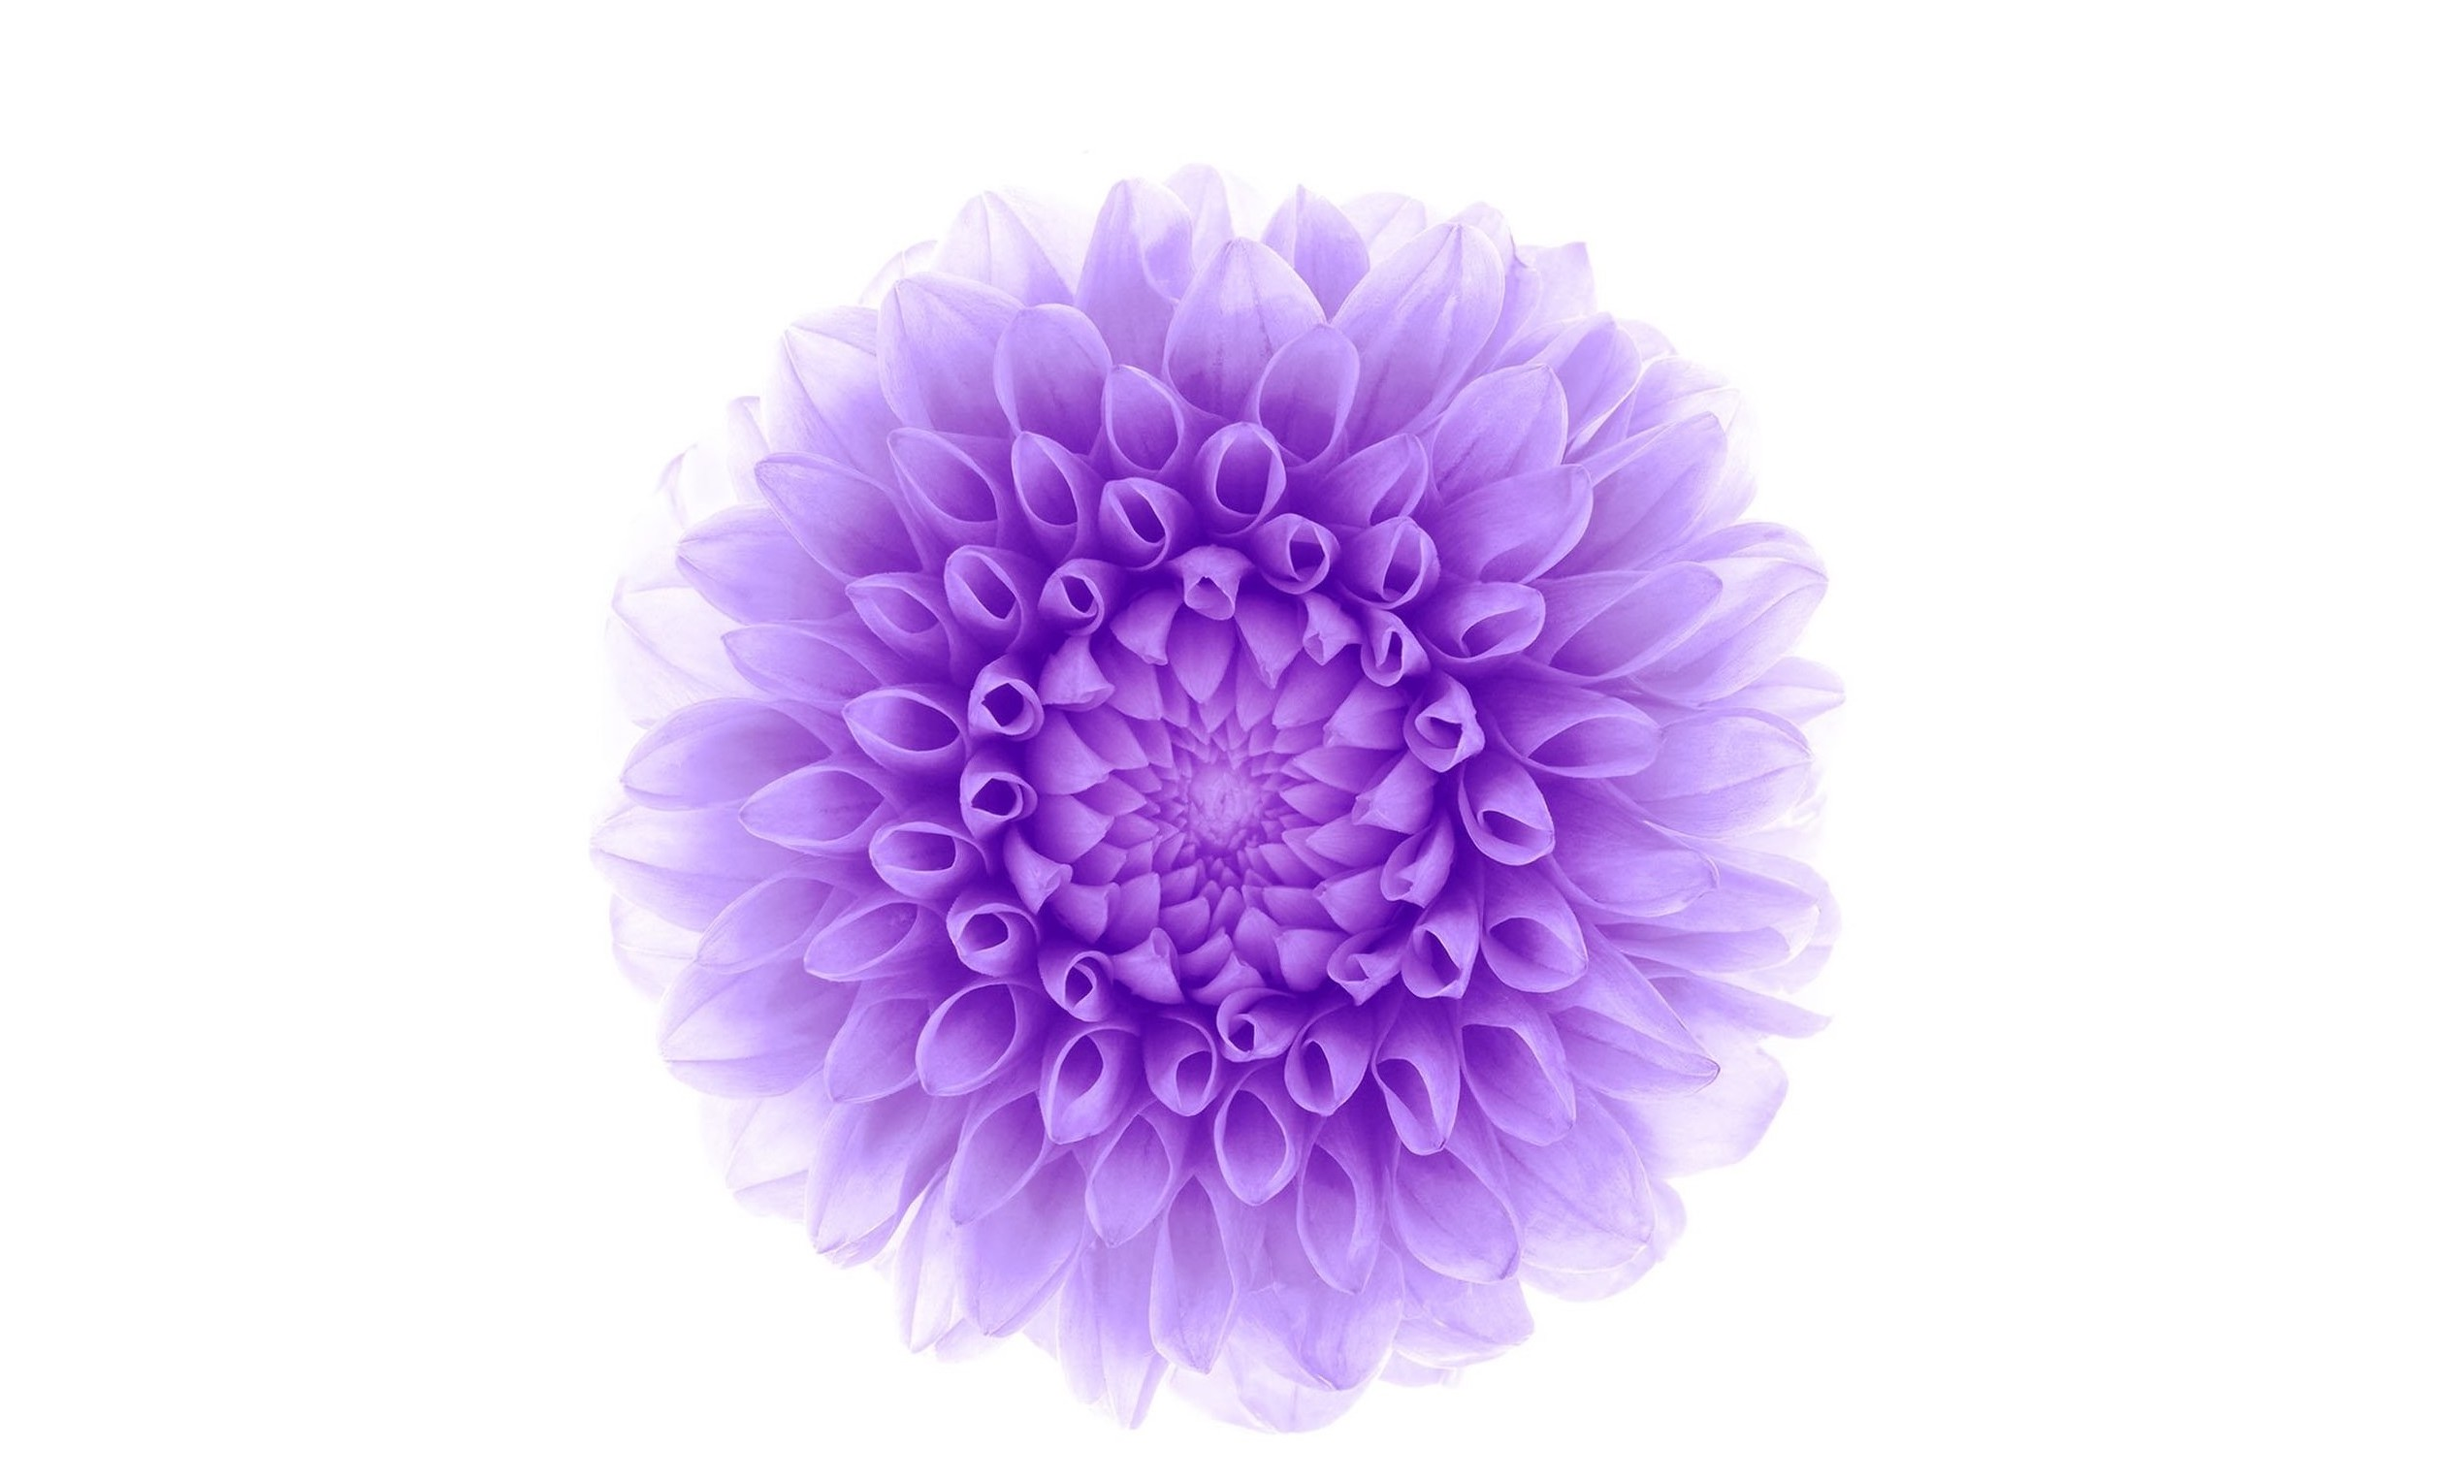
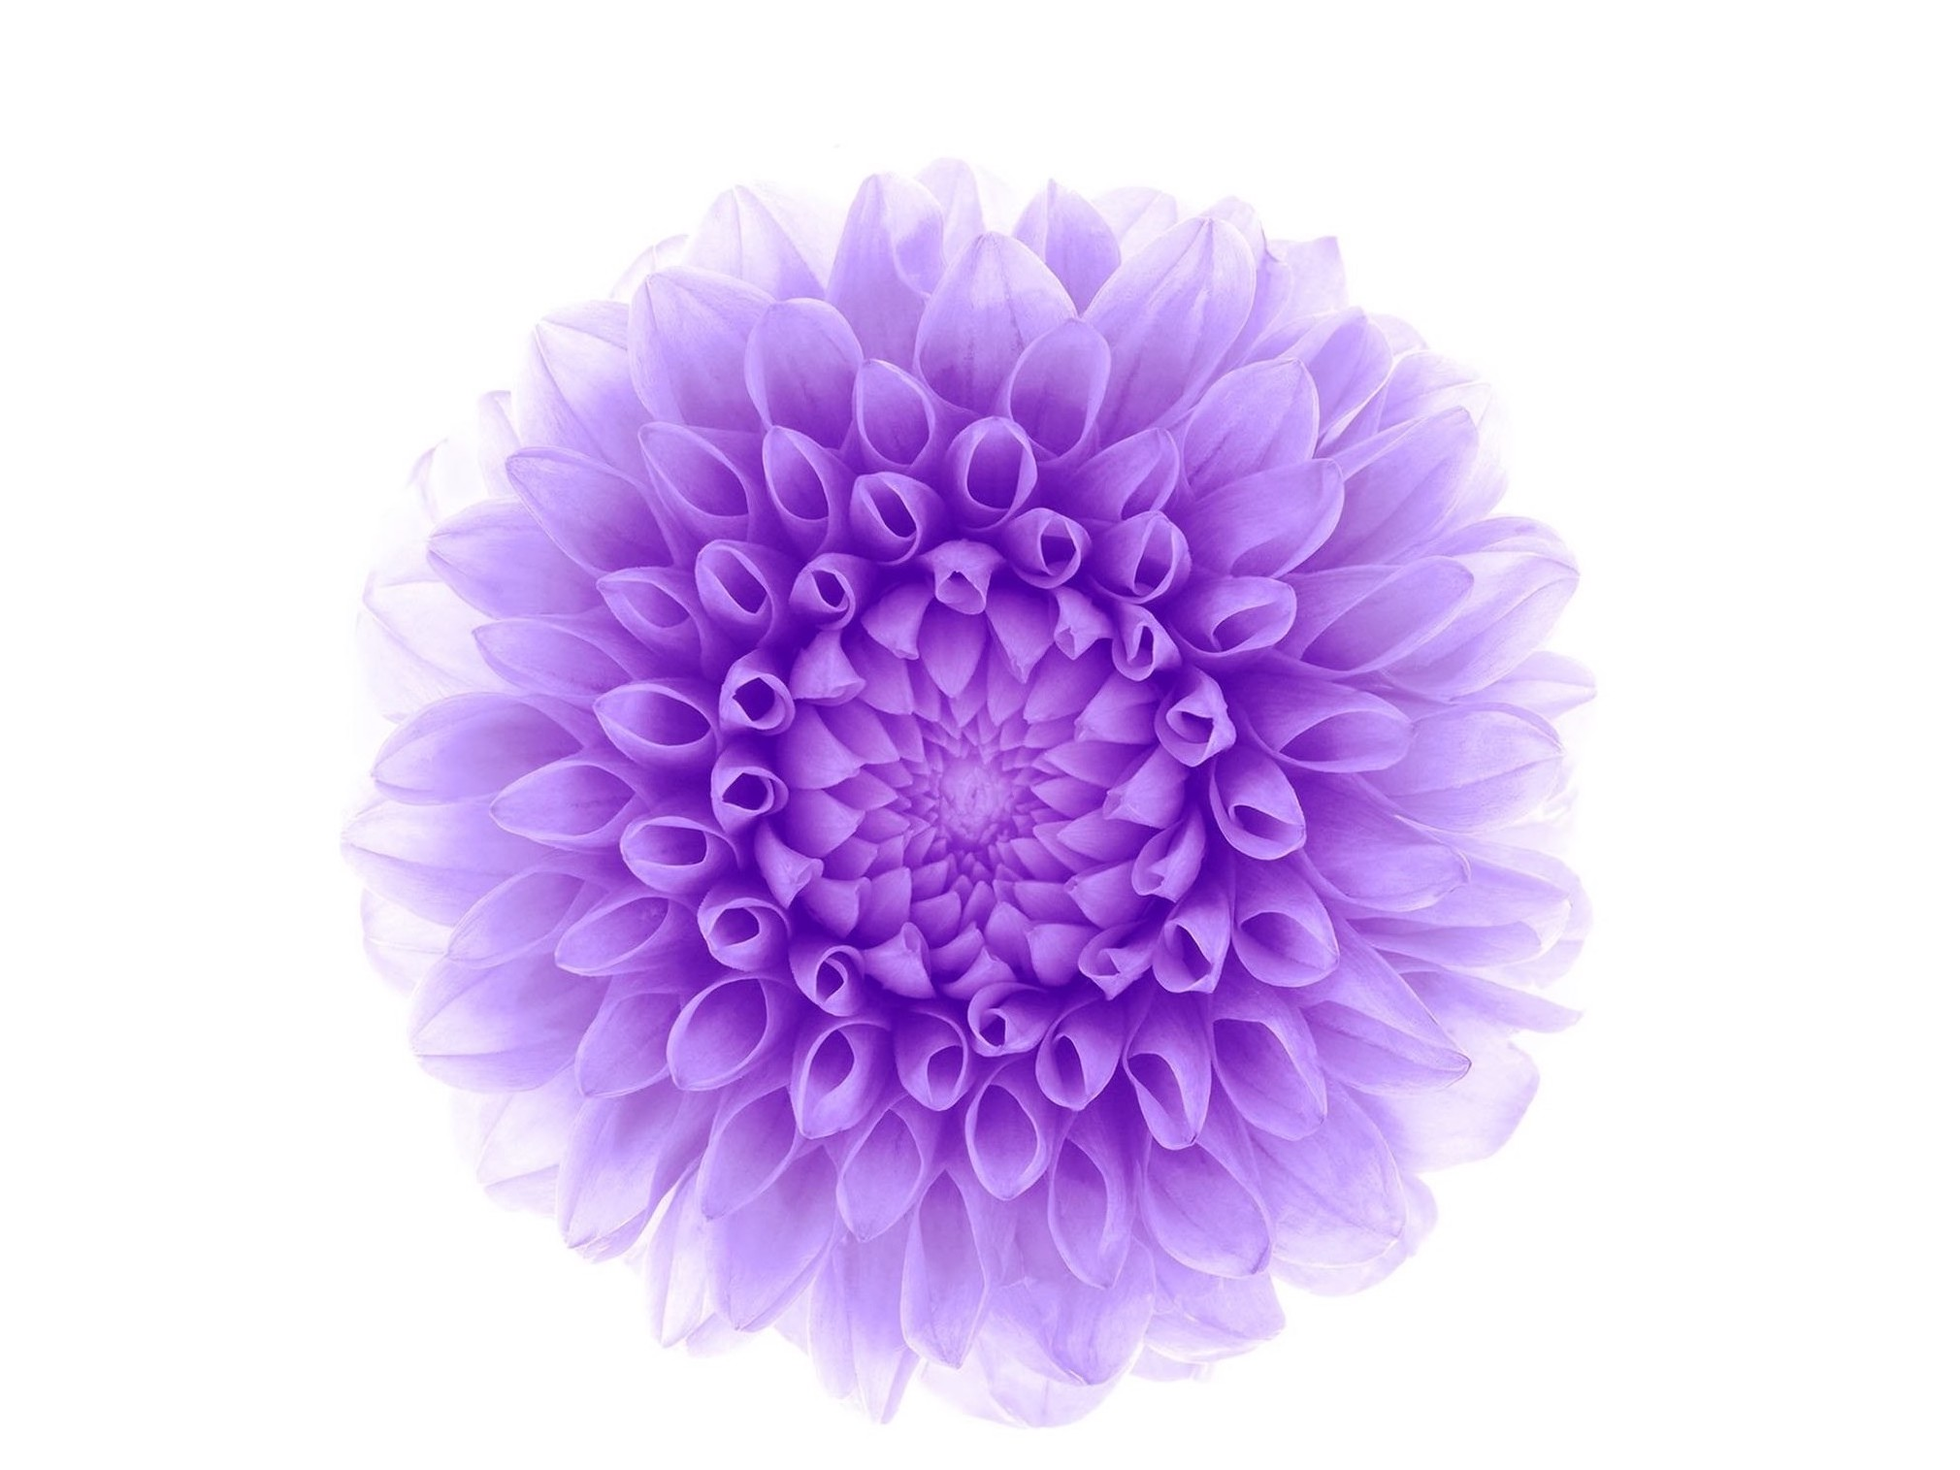
mobile update

Changed region(s): [[0.1559, 0.1241, 0.8109, 0.9927]]

diff --git a/index.html b/index.html
@@ -12,14 +12,15 @@
 
     </head>
 
-    <body>
-      <body id="page-top">
+    <body id="page-top">
 
+      <!-- big container -->
       <div class="container-fluid">
+
         <nav class="navbar navbar-expand-lg navbar-light bg-transparent fixed-top" id="mainNav">
           <div class="container">
             <a class="navbar-brand js-scroll-trigger" href="#page-top">
-              <img class="img-responsive" id="dog" src="./assets/myInitials.png " >
+              <img class="img-responsive" id="initials" src="./assets/myInitials.png " >
             </a>
             <button class="navbar-toggler" type="button" data-toggle="collapse" data-target="#navbarResponsive" aria-controls="navbarResponsive" aria-expanded="false" aria-label="Toggle navigation">
               <span class="navbar-toggler-icon"></span>
@@ -47,8 +48,8 @@
         </nav>
 
         <div class="row">
-          <div class="col-md-12">
-              <img class="img-responsive" id="home" src="./assets/backgroundImage-min.jpg " >
+          <div class="col-md-12 ">
+              <img class="img-responsive" id="home" src="./assets/flower.jpg " >
           </div>
         </div>
 
@@ -62,10 +63,35 @@
           </div>
         </div>
 
-        <div class="row splits bg-light" id="projects">
-            <div class="col-md-12 mx-auto">
-              <p class="lead">Lorem ipsum dolor sit amet, consectetur adipisicing elit. Aut optio velit inventore, expedita quo laboriosam possimus ea consequatur vitae, doloribus consequuntur ex. Nemo assumenda laborum vel, labore ut velit dignissimos.</p>
-            </div>
+        <!-- <div class="row splits bg-light" id="projects">
+                <div class="card col-md-6">
+                  <div class="card-body">
+                    <div class="row">
+                      <div class="col-md-6 mx-auto">
+                          <img class="img-responsive" id="projectPics" src="./assets/FareRide1.png " >
+                      </div>
+                      <div class="col-md-6 mx-auto">
+                          <img class="img-responsive" id="projectPics" src="./assets/FareRide2.png " >
+                      </div>
+                    </div>
+                    <h5 class="card-title">FareRide</h5>
+                    <h6 class="card-subtitle mb-2 text-muted">Andriod Application</h6>
+                    <p class="card-text">Created an Android Application that compares Uber and Lyft prices. Calculated distance of pickup and drop off using Google Maps API.</p>
+                    <a href="https://github.com/stephenfung98/PennApps18/" class="card-link">Github</a>
+                  </div>
+                </div>
+
+                <div class="card col-md-6">
+                  <div class="card-body">
+                    <div class="row">
+                          <img class="img-responsive" id="projectPics" src="./assets/inProgress.png " >
+                    </div>
+                    <h5 class="card-title">uBeEats</h5>
+                    <h6 class="card-subtitle mb-2 text-muted">iOS Application</h6>
+                    <p class="card-text">iOS Application that tracks calories and other nutrients for all on-campus food locations at the University at Buffalo.</p>
+                    <a href="https://github.com/jayll/uBeEats" class="card-link">Github</a>
+                  </div>
+                </div>
         </div>
 
 
@@ -78,7 +104,7 @@
         <footer class="page-footer bg-light">
           <p class="lead">Lorem ipsum dolor sit amet, consectetur adipisicing elit. Aut optio velit inventore, expedita quo laboriosam possimus ea consequatur vitae, doloribus consequuntur ex. Nemo assumenda laborum vel, labore ut velit dignissimos.</p>
         </footer>
-
+      -->
       </div>
 
         <script src="./js/jquery.min.js"></script>

diff --git a/scss/styles.scss b/scss/styles.scss
@@ -1,6 +1,17 @@
 // $bg-color: white;
 //
 
+.borderThick{
+  border-style: solid;
+  border-color: blue;
+}
+
+#projectPics{
+  height: 400px;
+  width:auto;
+  margin:0 auto;
+}
+
 .container-fluid {
     padding-right:0!important;
     padding-left:0!important;
@@ -10,11 +21,13 @@
 
 #home{
   // size:100% auto;
-    // background-attachment: fixed;
+    background-attachment: fixed;
     height: auto;
     width:100%;
+    padding-top: 50px;
+
 }
-#dog{
+#initials{
   // size:100% auto;
     // background-attachment: fixed;
     height: auto;
@@ -24,6 +37,7 @@
 #mePicture{
   height: auto;
   width: 80%;
+  margin:0 auto;
 }
 
 // .navbar-nav li a:hover, .navbar-nav li.active a {
@@ -36,7 +50,7 @@
 
 
 .splits {
-  padding: 200px 0;
+  padding:  60px 0;
   padding-right:15px!important;
   padding-left:15px!important;
   margin-right:auto!important;

diff --git a/css/styles.css b/css/styles.css
@@ -1,3 +1,12 @@
+.borderThick {
+  border-style: solid;
+  border-color: blue; }
+
+#projectPics {
+  height: 400px;
+  width: auto;
+  margin: 0 auto; }
+
 .container-fluid {
   padding-right: 0 !important;
   padding-left: 0 !important;
@@ -5,22 +14,25 @@
   margin-left: auto !important; }
 
 #home {
+  background-attachment: fixed;
   height: auto;
-  width: 100%; }
+  width: 100%;
+  padding-top: 50px; }
 
-#dog {
+#initials {
   height: auto;
   width: 40%; }
 
 #mePicture {
   height: auto;
-  width: 80%; }
+  width: 80%;
+  margin: 0 auto; }
 
 .navbar-toggler {
   border: 0px !important; }
 
 .splits {
-  padding: 200px 0;
+  padding: 60px 0;
   padding-right: 15px !important;
   padding-left: 15px !important;
   margin-right: auto !important;
